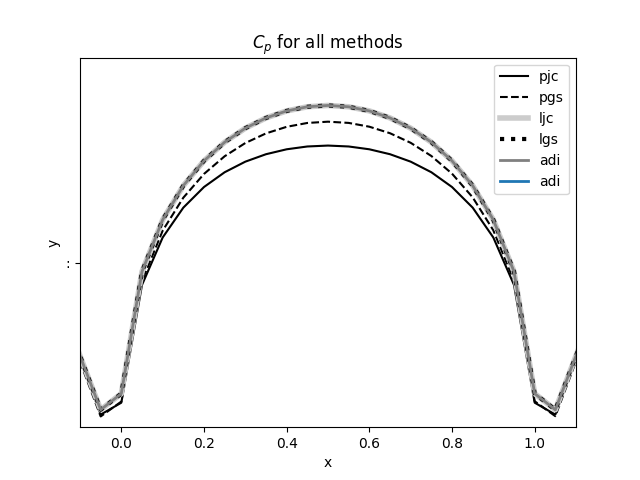
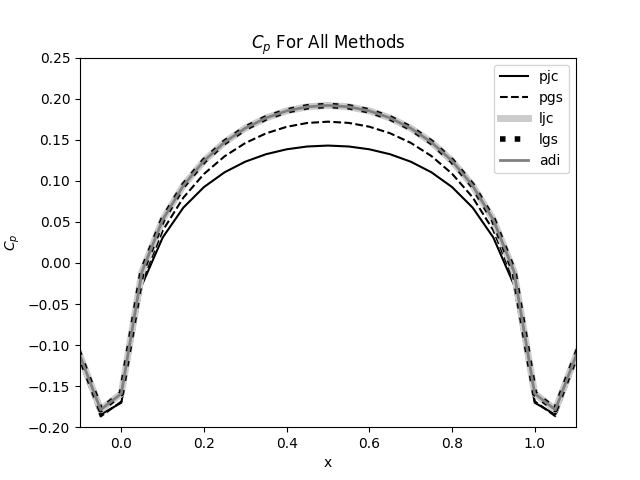
hw1

diff --git a/homework/assignment1/transflow.cpp b/homework/assignment1/transflow.cpp
@@ -1,4 +1,4 @@
-//exercise 5.5
+//exercise 6.1
 #include <stdlib.h>
 #include <stdio.h>
 #include <math.h>
@@ -33,7 +33,6 @@ void Calculate_CP();
 void Calculate_Mach();
 void LU_Solver(int N);
 double Calculate_Kappa(int N, double length, double delta);
-void Print_Residual();
 void Save_Result(int time);
 void Free_Memory();
 
@@ -42,7 +41,7 @@ FILE *pFile;
 
 int main(){
 	int i, time=0;
-	pFile = fopen("data.txt","w");
+	pFile = fopen("trans_data.txt","w");
 	Allocate_Memory();
 	Create_Grid();
 	Initial();
@@ -50,7 +49,6 @@ int main(){
 	Interation();
 	time++;
 	Save_Result(time);
-//	Print_Residual();
 	Calculate_CP();
 	Calculate_Mach();
 	fclose(pFile);
@@ -122,7 +120,6 @@ void Interation(){
 	int i, j, k, l;
 	double a1, b1, c1, d1, a2, b2, u, v, Am1d, Am2d, phi1d, phi2d, mu1d, mu2d;
 	for(k=0; k<N_IT; k++){
-		Calculate_residual(k);
 		for(i=1; i<NX-1; i++){
 			for(j=0; j<NY; j++){
 				//set up tridiagonal matrix
@@ -156,7 +153,7 @@ void Interation(){
 						am[j]=-Am1d*(a1+b1)-c1-d1;
 						bm[j]=c1;
 						cm[j]=d1;
-						f[j]=-Am1d*a1*phi[i+1+j*NX]+Am1d*b1*phi_new[i-1+j*NX];
+						f[j]=-Am1d*a1*phi[i+1+j*NX]-Am1d*b1*phi_new[i-1+j*NX];
 					}else{
 						phi2d=(phi[i+j*NX]-phi_new[i-2+j*NX])/(x[i]-x[i-2]);
 						Am2d=1-Minf*Minf-phi2d*(Gm+1)*Minf*Minf/Vinf;
@@ -182,8 +179,7 @@ void Interation(){
 				phi[i+j*NX]=phi_new[i+j*NX];
 			}
 		}
-		
-
+		Calculate_residual(k);
 	}
 }
 
@@ -222,7 +218,7 @@ void Calculate_CP(){
 	FILE *in2;
 	int i,j;
 	double u,v,p;
-	in2 = fopen("cp.txt","w");
+	in2 = fopen("trans_cp.txt","w");
 	for(i=0;i<NX;i++){
 		if(i==0){
 			u=Vinf+(phi[i+1]-phi[i])/(x[i+1]-x[i]);
@@ -244,7 +240,7 @@ void Calculate_Mach(){
 	FILE *in2;
 	int i,j;
 	double u,v,sp;
-	in2 = fopen("mach.txt","w");
+	in2 = fopen("trans_mach.txt","w");
 	for(j=0; j<NY; j++){
 		for(i=0;i<NX;i++){
 			if(i==0){
@@ -263,10 +259,9 @@ void Calculate_Mach(){
 		
 			}
 			sp=sqrt(u*u+v*v);
-		fprintf(in2,"%e ",sp/ainf);
+		fprintf(in2,"%e %e %e\n",sp/ainf, u, v);
 		}
 	}
-	fprintf(in2,"\n");
 	fclose(in2);
 
 }
@@ -301,7 +296,7 @@ void Save_Result(int time){
 			}
 		}
 		fprintf(pFile, "\n");
-		in2 = fopen("residual.txt","w");
+		in2 = fopen("trans_residual.txt","w");
 		
 		for(i=0; i<N_IT; i++){
 			fprintf(in2, "%e ", residual[i]);
@@ -327,41 +322,6 @@ void LU_Solver(int N){
 		dm[i] = (dp[i]-bm[i]*dm[i+1])/bp[i];
 	}
 
-}
-
-void Print_Residual(){
-/*	int i,j,l, cases=6;
-	double temp,a,b,c,d;
-	FILE *in;
-
-	in=fopen("residual_map.txt", "w");
-	for(j=0; j<NY; j++){
-		for(i=0; i<NX; i++){
-			if(i==0||i==NX-1||j==NY-1){
-				cases=0;
-				temp=fabs(Vinf*x[i]-phi[i+NX*j]);
-			}else if(j==0){
-				if(i>(NO-1) && i<NC+NO){
-					cases=1;
-					temp=fabs((phi[i+NX]-phi[i])-Vinf*dymin*((0.5*C-x[i])/sqrt(pow(0.25*C*C/TH+0.25*TH,2)-pow(x[i]-0.5*C,2))));
-				}else{
-					cases=2;
-					temp=fabs(phi[i+NX]-phi[i]);
-				}
-			}else{
-				cases=3;
-                       		a=2*Am/(x[i+1]-x[i-1])/(x[i+1]-x[i]);
-				b=2*Am/(x[i+1]-x[i-1])/(x[i]-x[i-1]);
-                       		c=2/(y[j+1]-y[j-1])/(y[j+1]-y[j]);
-                       		d=2/(y[j+1]-y[j-1])/(y[j]-y[j-1]);
-                       		temp = fabs(-(a+b+c+d)*phi[i+j*NX]+a*phi[i+1+j*NX]+b*phi[i-1+j*NX]+c*phi[i+(j+1)*NX]+d*phi[i+(j-1)*NX]);
-			}
-			fprintf(in, "%e ", temp);
-		}
-	}
-	fprintf(in, "\n");
-	fclose(in);
-*/
 }
 
 void Free_Memory(){

diff --git a/homework/assignment1/plot_2D.py b/homework/assignment1/plot_2D.py
@@ -2,69 +2,65 @@ import numpy as np
 import matplotlib.pyplot as plt
 
 method=5;
-method_name=['pjc','pgs','ljc','lgs','ads']
-
+method_name=['pjc','pgs','ljc','lgs','adl']
+titles=['Method 1 Point Jocobi', 'Method 2 Point Gauss-Siedel', 'Method 3 Line Jocobi', 'Method 4 Point Gauss-Siedel', 'Method 5 Alternating Direction Implicit']
 data = np.loadtxt("2d_data.txt")
 cp = np.loadtxt("2d_cp.txt")
 re = np.loadtxt("2d_residual.txt")
-#rem = np.loadtxt("residual_map.txt")
-#print(data)
+
 x = np.array(data[0,:]).reshape((51,51))
 y = np.array(data[1,:]).reshape((51,51))
-#print(re[2,:])
-#O = np.array(data[2,:]).reshape((51,51))
-#F = np.array(data[4,:]).reshape((51,51))
-#Rem = np.array(rem[1,:]).reshape((51,51))
-#R = np.array(re[0,:])
-#plt.figure()
-#ax = fig.add_subplot(111, projection='3d')
-#for i in range(51):
-#    plt.plot(x[:,i],y[:,i],'-k',linewidth=0.5)
-#    plt.plot(x[i,:],y[i,:],'-k',linewidth=0.5)
-#levels= np.linspace(np.min(Rem),np.max(Rem),20)
-#print(np.min(Rem))
-#print(np.max(Rem))
-#plt.plot(x[0,:],cp[3,:],linewidth=0.5)
-#plt.contour(x,y,F, levels=levels)
-#plt.contour(x,y,Rem, levels=levels);
-#ax.plot_surface(x,y,Rem,edgecolor='royalblue', lw=0.5, rstride=8, cstride=8,
-#                alpha=0.3)
-#plt.xlim([-0.1,1.1])
-#plt.ylim([-0.3,0.2])
-#plt.colorbar()
-#plt.title("Mesh near airfoil")
-plt.figure(1)
+
+for i in range(method):
+    plt.figure(2*i)
+    plt.plot(x[0,:],cp[i,:],'k')
+    plt.title(titles[i])
+    plt.xlabel("x")
+    plt.ylabel("$C_p$")
+    plt.xlim([-0.1,1.1])
+    plt.ylim([-0.2,0.25])
+    plt.savefig(method_name[i]+'_cp.png')
+
+    plt.figure(2*i+1)
+    plt.plot(re[i,:],'k')
+    plt.title(titles[i])
+    plt.xlabel("step")
+    plt.ylabel("residual")
+    plt.yscale("log")
+    plt.savefig(method_name[i]+'_residual.png')
+
+plt.figure(2*method)
 plt.yscale("log")
 plt.plot(re[0,:],'k',label="pjc")
 plt.plot(re[1,:],'--k',label="pgs")
 plt.plot(re[2,:],'-.k',label="ljc")
 plt.plot(re[3,:],':k',label="lgs")
 plt.plot(re[4,:],'0.5',label="adi")
-plt.title("residual for all methods")
+plt.title("Residual For All Methods")
 plt.xlabel("step")
 plt.ylabel("residual")
 plt.legend()
 plt.savefig("residual_all.png")
 
-plt.figure(2)
+plt.figure(2*method+1)
 plt.plot(x[0,:],cp[0,:],'k',label="pjc")
 plt.plot(x[0,:],cp[1,:],'--k',label="pgs")
-plt.plot(x[0,:],cp[2,:],'0.8',label="ljc",linewidth=4)
-plt.plot(x[0,:],cp[3,:],':k',label="lgs",linewidth=3)
-plt.plot(x[0,:],cp[4,:],'0.5',':',label="adi",linewidth=2)
+plt.plot(x[0,:],cp[2,:],'0.8',label="ljc",linewidth=5)
+plt.plot(x[0,:],cp[3,:],':k',label="lgs",linewidth=4)
+plt.plot(x[0,:],cp[4,:],'0.5',label="adi",linewidth=2)
 plt.xlim([-0.1,1.1])
 plt.ylim([-0.2,0.25])
-plt.title("$C_p$ for all methods")
+plt.title("$C_p$ For All Methods")
 plt.xlabel("x")
-plt.ylabel("y")
+plt.ylabel("$C_p$")
 plt.legend()
 plt.savefig("cp_all.png")
 
-plt.figure(3)
+plt.figure(2*method+2)
 for i in range(51):
     plt.plot(x[:,i],y[:,i],'-k',linewidth=0.5)
     plt.plot(x[i,:],y[i,:],'-k',linewidth=0.5)
-plt.title("grid")
+plt.title("Grid Near Airfoil")
 plt.xlabel("x")
 plt.ylabel("y")
 plt.xlim([-1,2])

diff --git a/homework/assignment1/2dflow.cpp b/homework/assignment1/2dflow.cpp
@@ -358,21 +358,8 @@ void Calculate_residual(int method, int time){
 			temp1=(phi[i+(j+1)*NX+method*NX*NY]-phi[i+j*NX+method*NX*NY])/(y[j+1]-y[j]);
 			temp2=(phi[i+j*NX+method*NX*NY]-phi[i+(j-1)*NX+method*NX*NY])/(y[j]-y[j-1]);
 			temp4=2*(temp1-temp2)/(y[j+1]-y[j-1]);
-//			sum = (sum > fabs(temp3+temp4)? sum : fabs(temp3+temp4));
 			temp = fabs(temp3+temp4);			
-/*
-			a=2*Am/(x[i+1]-x[i-1])/(x[i+1]-x[i]);
-			b=2*Am/(x[i+1]-x[i-1])/(x[i]-x[i-1]);
-			c=2/(y[j+1]-y[j-1])/(y[j+1]-y[j]);
-			d=2/(y[j+1]-y[j-1])/(y[j]-y[j-1]);
-			temp = fabs(-(a+b+c+d)*phi[i+j*NX+method*NX*NY]+a*phi[i+1+j*NX+method*NX*NY]+b*phi[i-1+j*NX+method*NX*NY]+c*phi[i+(j+1)*NX+method*NX*NY]+d*phi[i+(j-1)*NX+method*NX*NY]);
-
-			temp1 = 2*Am*((phi[i+1+j*NX+method*NX*NY]-phi[i+j*NX+method*NX*NY])/(x[i+1]-x[i])\
-				     -(phi[i+j*NX+method*NX*NY]-phi[i-1+j*NX+method*NX*NY])/(x[i]-x[i-1]))/(x[i+1]-x[i-1]);
-			temp2 = 2*((phi[i+(j+1)*NX+method*NX*NY]-phi[i+j*NX+method*NX*NY])/(y[j+1]-y[j])\
-			          -(phi[i+j*NX+method*NX*NY]-phi[i+(j-1)*NX+method*NX*NY])/(y[j]-y[j-1]))/(y[j+1]-y[j-1]);
-			temp = fabs(temp1 + temp2);
-*/			sum = (sum>temp) ? sum : temp;
+		sum = (sum>temp) ? sum : temp;
 		
 		}
 	}
@@ -464,9 +451,8 @@ void LU_Solver(int N){
 }
 
 void Print_Residual(){
-	int i,j,l, cases=6;
+	int i,j,l;
 	double temp,a,b,c,d;
-	int mx[300],my[300],ml[300],index=0;
 	FILE *in;
 
 	in=fopen("2d_residual_map.txt", "w");
@@ -477,35 +463,21 @@ void Print_Residual(){
 					printf("phi nan at (x,y) = (%d, %d) with method %d, total index=%d\n",i, j, l, i+NX*j+l*NX*NY);	
 				}
 				if(i==0||i==NX-1||j==NY-1){
-					cases=0;
 					temp=fabs(Vinf*x[i]-phi[i+NX*j+l*NX*NY]);
 				}else if(j==0){
 					if(i>(NO-1) && i<NC+NO){
-						cases=1;
 						temp=fabs((phi[i+NX+l*NX*NY]-phi[i+l*NX*NY])-Vinf*dymin*((0.5*C-x[i])/sqrt(pow(0.25*C*C/TH+0.25*TH,2)-pow(x[i]-0.5*C,2))));
 					}else{
-						cases=2;
 						temp=fabs(phi[i+NX+l*NX*NY]-phi[i+l*NX*NY]);
 					}
 				}else{
-					cases=3;
                         		a=2*Am/(x[i+1]-x[i-1])/(x[i+1]-x[i]);
-					b=2*Am/(x[i+1]-x[i-1])/(x[i]-x[i-1]);
+								b=2*Am/(x[i+1]-x[i-1])/(x[i]-x[i-1]);
                         		c=2/(y[j+1]-y[j-1])/(y[j+1]-y[j]);
                         		d=2/(y[j+1]-y[j-1])/(y[j]-y[j-1]);
                         		temp = fabs(-(a+b+c+d)*phi[i+j*NX+l*NX*NY]+a*phi[i+1+j*NX+l*NX*NY]+b*phi[i-1+j*NX+l*NX*NY]+c*phi[i+(j+1)*NX+l*NX*NY]+d*phi[i+(j-1)*NX+l*NX*NY]);
 				}
-/*				if(isnan(temp)){
-					printf("phi=%e temp nan at (x,y) = (%d, %d), case %d with method %d, total index=%d\n", phi[i+j*NX+l*NX*NY], i, j, cases, l, i+NX*j+l*NX*NY);	
-				}
-				if(temp>100){
-					mx[index]=i;
-					my[index]=j;
-					ml[index]=l;
-					index++;
-					printf("%d, %d, %d, %e\n",i,j,l,temp);
-				}
-*/				fprintf(in, "%e ", temp);
+			fprintf(in, "%e ", temp);
 			}
 		}
 		fprintf(in, "\n");

diff --git a/homework/assignment1/plot_trans.py b/homework/assignment1/plot_trans.py
@@ -1,2 +1,57 @@
 import numpy as np
 import matplotlib.pyplot as plt
+import matplotlib.ticker as ticker
+import matplotlib.cm as cm
+
+
+m=0.908
+data = np.loadtxt("trans_data.txt")
+cp = np.loadtxt("trans_cp.txt")
+mach_data = np.loadtxt("trans_mach.txt")
+re = np.loadtxt("trans_residual.txt")
+x = np.array(data[0,:]).reshape((51,51))
+y = np.array(data[1,:]).reshape((51,51))
+mach = np.array(mach_data[:,0]).reshape((51,51))
+u =    np.array(mach_data[:,1])
+v = np.array(mach_data[:,2])
+u = u.reshape((51,51))
+v = v.reshape((51,51))
+
+
+
+
+plt.figure(0)
+plt.plot(x[0,:],cp,'k')
+plt.title("Murman-Cole $C_p$ w/ $M_{inf}$="+str(m))
+plt.xlabel("x")
+plt.ylabel("$C_p$")
+plt.xlim([-0.1,1.1])
+#for 0.908
+plt.ylim([-0.5,0.8])
+#for 0.908
+#plt.ylim([-0.3,0.3])
+plt.savefig('Murman_'+str(m)+'cp.png')
+
+plt.figure(1)
+plt.plot(re,'k')
+plt.title("Murman-Cole residual w/ $M_{inf}$="+str(m))
+plt.xlabel("step")
+plt.ylabel("residual")
+plt.yscale("log")
+plt.savefig('Murman_'+str(m)+'_residual.png')
+
+fig, ax = plt.subplots()
+ax.quiver(x,y,u,v,scale=10, width=0.0005, headwidth=50, headlength=50)
+ax.set_xlim
+ax.set_xlim([-1,2])
+#for 0.908
+ax.set_ylim([0.0, 3])
+#for 0.735
+#ax.set_ylim([0.0, 1])
+ax.set_title("Mach contours w/ $M_{inf}$="+str(m))
+#for 0.908
+CS = ax.contour(x, y, mach,levels=[1.0,1.1,1.2,1.3],linewidths=[2.0,2.0,2.0,2.0], colors=['k','k','k','k'])
+#for 0.735
+#CS = ax.contour(x, y, mach,levels=[0.65,0.7,0.75,0.8],linewidths=[2.0,2.0,2.0,2.0], colors=['k','k','k','k'])
+ax.clabel(CS, inline=True, fontsize=12)
+plt.savefig('Murman_'+str(m)+'_mach.png')

diff --git a/homework/assignment1/implicit.cpp b/homework/assignment1/implicit.cpp
@@ -59,10 +59,10 @@ void Initial(){
 	for( i = 0; i < N; i++){
 		if(i*dx < 0.5){
 			u[i] = 1;		//Implicit central
-			u[i + N] = 1;		//Explicit forward
+			u[i + N] = 1;	//Crank-Nicolson
 		}else{
-			u[i] = 0.5;		//Implicit backward
-			u[i + N] = 0.5;		//Explicit forward
+			u[i] = 0.5;		//Implicit central
+			u[i + N] = 0.5;	//Crank-Nicolson
 		}
 		if(i==0){
 			am[i]= 1;
